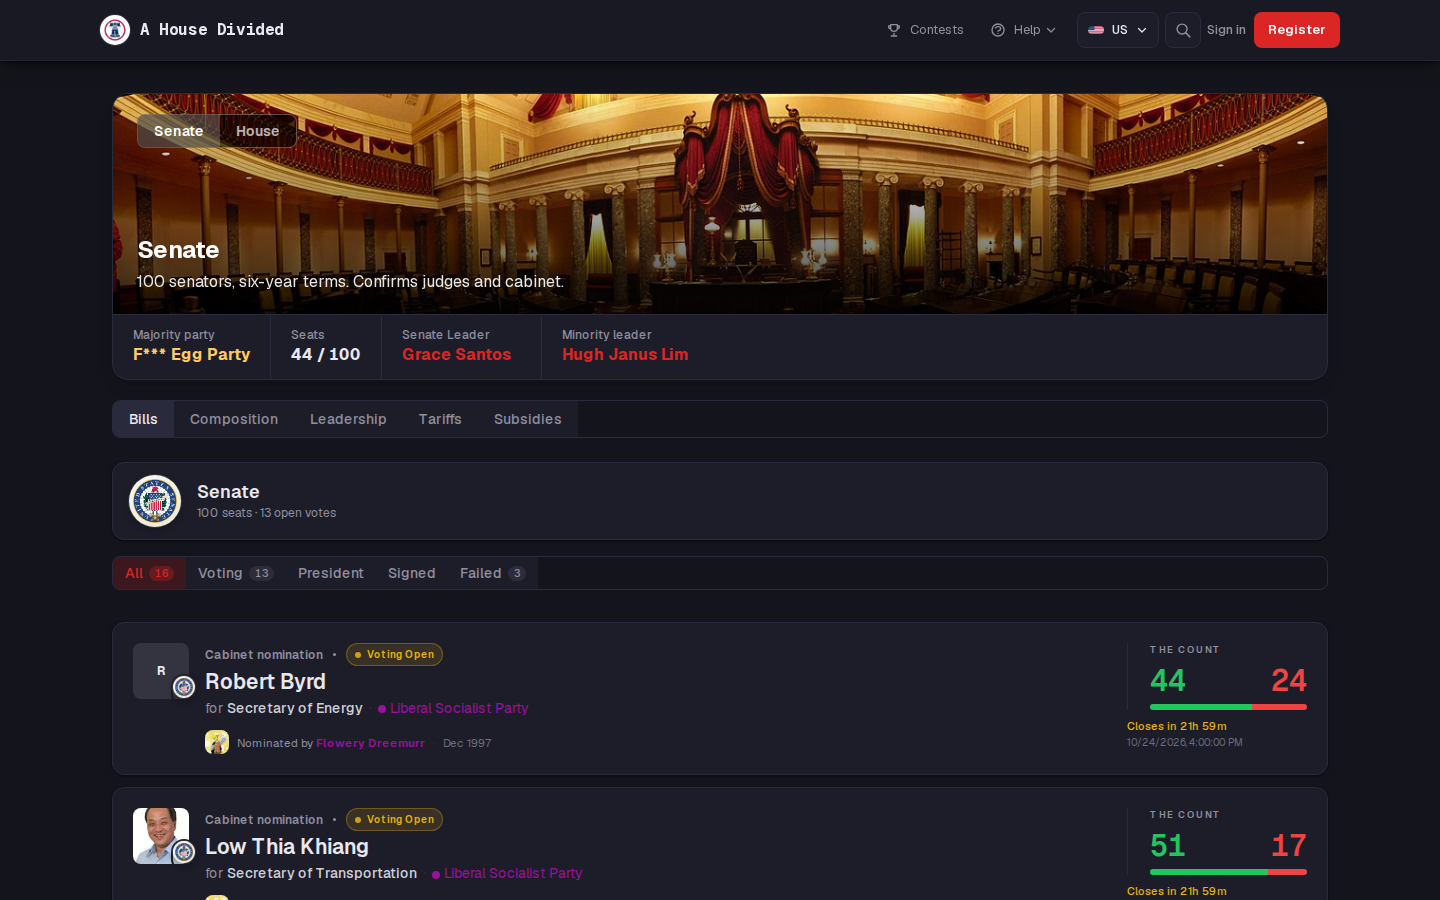
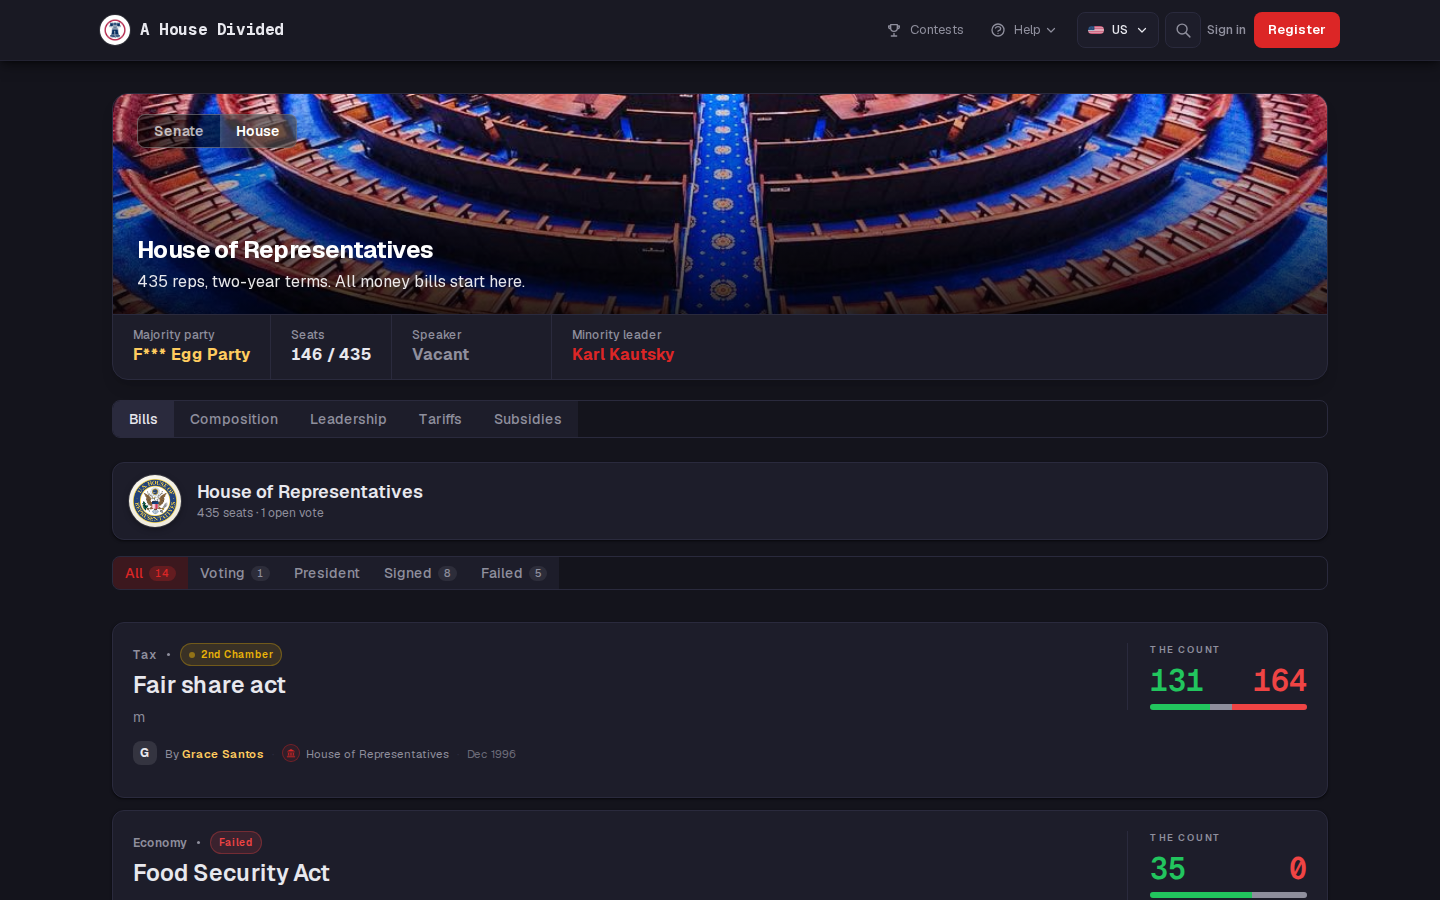
docs(wiki): use the House bills tab in the legislation screenshot
The Senate tab opened on a cabinet nomination, which reads as a personnel vote rather than a bill. The House tab shows the Fair share act and Food Security Act, so it matches the Bills & Legislation guide.

diff --git a/src/lib/seeds/wiki/content/billsLegislation.ts b/src/lib/seeds/wiki/content/billsLegislation.ts
@@ -100,7 +100,7 @@ Bills move through a strict status pipeline managed automatically by the turn pr
 legislature
 \`\`\`
 
-*The Senate bills tab. The tabs separate all bills from those still voting, those awaiting presidential action, signed bills, and failed bills. Each card shows the live count and the closing countdown.*
+*The House bills tab. The tabs separate all bills from those still voting, those awaiting presidential action, signed bills, and failed bills. Each card shows the live count and the closing countdown.*
 
 | Status | Meaning |
 | --- | --- |
